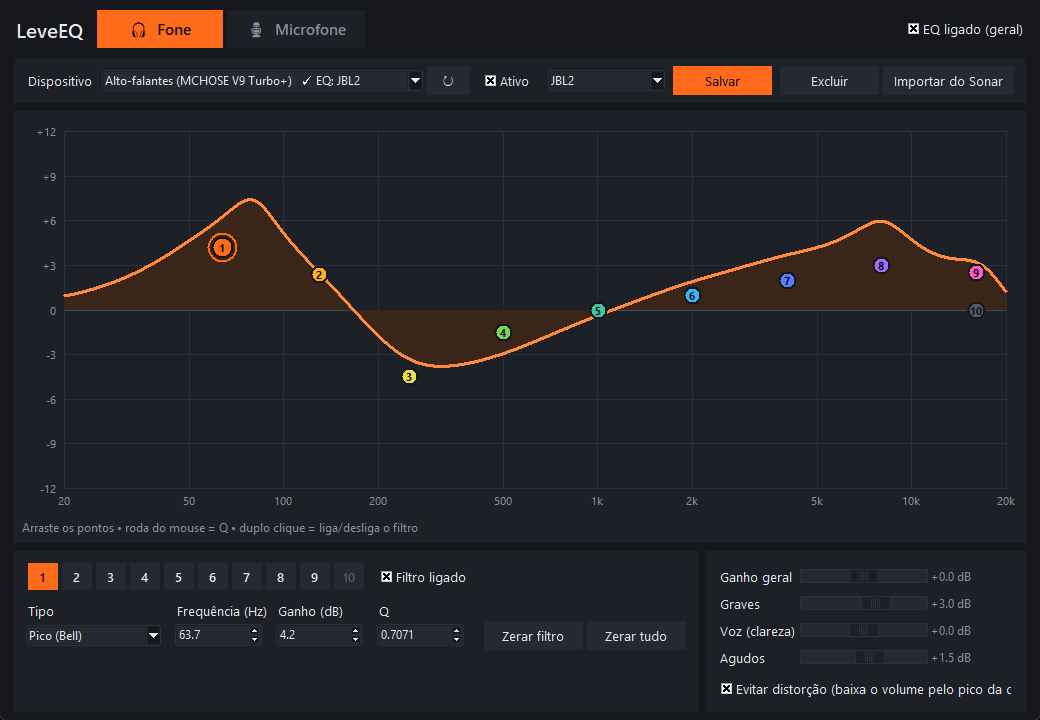
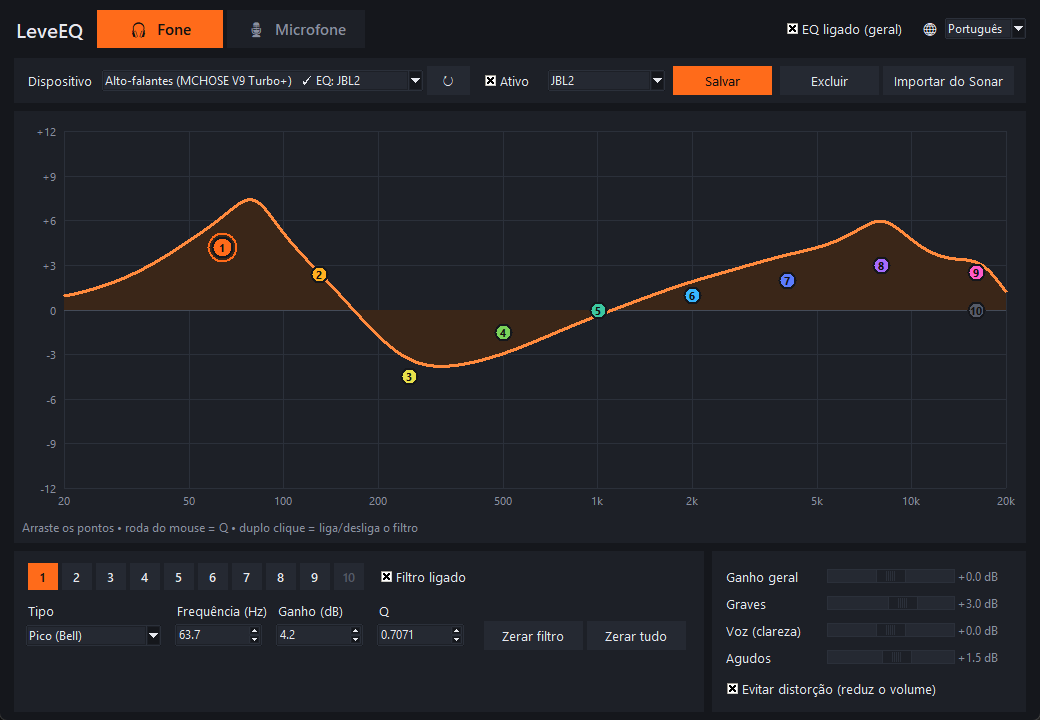
Adiciona selecao de idioma (portugues e ingles)
- Todos os textos da interface agora ficam no dicionario STRINGS
- Seletor de idioma no canto superior direito; a escolha fica salva
- Na primeira vez, o app segue o idioma do Windows
- README e prints atualizados

Changed region(s): [[0.6769, 0.7944, 0.9846, 0.9778], [0.7385, 0.0306, 0.9846, 0.0611], [0.8923, 0.7944, 0.9538, 0.9167]]

diff --git a/README.md b/README.md
@@ -57,6 +57,8 @@ possa ser melhorado, sugestões e correções são muito bem-vindas.
 - **Ícone na bandeja** perto do relógio: abrir, ligar ou desligar o EQ e sair.
   Fechar a janela só esconde o app.
 - **Mudanças aplicadas na hora**, enquanto você arrasta os pontos.
+- **Português e inglês**: troque o idioma no seletor 🌐 no canto superior direito. Na
+  primeira vez, o app usa o idioma do Windows.
 
 ### Como funciona
 
@@ -145,7 +147,8 @@ O Equalizer APO continua instalado. Se quiser removê-lo, desinstale pelo Window
 O app **não acessa a internet**, não coleta dados e não precisa de administrador. Só
 o instalador usa a internet, para baixar as bibliotecas Python pelo `pip` e para abrir
 as páginas de download. O código inteiro está em um único arquivo, o `leveeq.pyw`,
-comentado em português.
+comentado em português. Os textos da interface ficam todos juntos no início do arquivo
+(`STRINGS`), então dá para adicionar um novo idioma facilmente.
 
 ### Diferenças para o Sonar
 
@@ -185,6 +188,8 @@ separado, de seus próprios autores.
 ## English
 
 ### What it is
+
+![LeveEQ in English](docs/screenshot-en.png)
 
 LeveEQ ("leve" means "light" in Portuguese) is a 10-band parametric equalizer for your
 headphones and your microphone. It works in the style of the SteelSeries Sonar
@@ -232,6 +237,8 @@ something that could be better, suggestions and fixes are very welcome.
 - **Tray icon** next to the clock: open, turn the EQ on or off, and quit. Closing the
   window only hides the app.
 - **Changes apply instantly**, even while you drag the points.
+- **Portuguese and English**: switch the language with the 🌐 selector in the top-right
+  corner. On first launch, the app follows your Windows language.
 
 ### How it works
 
@@ -318,7 +325,8 @@ Equalizer APO stays installed. If you want to remove it, uninstall it from Windo
 The app **does not access the internet**, collects no data and needs no administrator
 rights. Only the installer goes online, to download the Python libraries with `pip`
 and to open download pages. All of the code is in one file, `leveeq.pyw`, with
-comments in Portuguese.
+comments in Portuguese. All interface texts are together at the top of the file
+(`STRINGS`), so adding a new language is easy: copy the `"en"` block and translate it.
 
 ### Differences from Sonar
 
